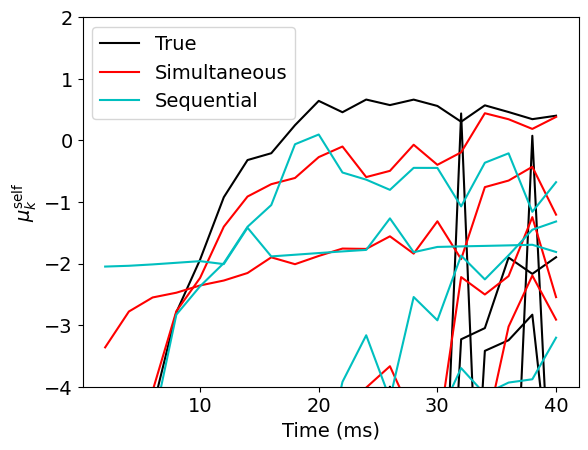
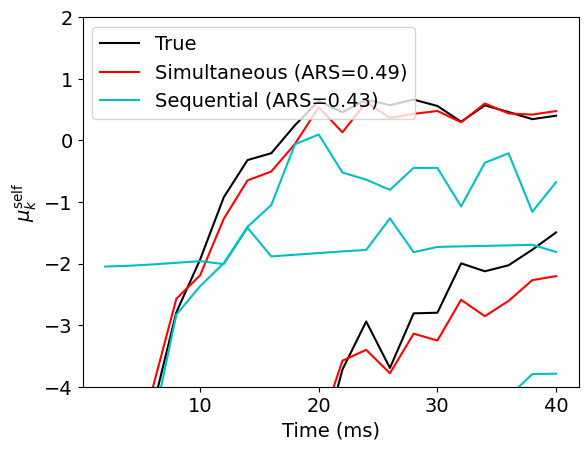
sending back fig

diff --git a/reviewer_figmaker.py b/reviewer_figmaker.py
@@ -114,7 +114,8 @@ share = 'all'
 l2s = np.logspace(-7,-1,13) if share!='all' else np.array([0])
 trials = 20
 
-fname = 'sim_frivsccsimul_simul'+str(0)+'_Kfit'+str(5)+'_l2i'+str(0)+'_share='+share
+Kfit=3
+fname = 'sim_frivsccsimul_simul'+str(0)+'_Kfit'+str(Kfit)+'_l2i'+str(0)+'_share='+share
 D_true = np.load(fname+'.npz',allow_pickle=True)
 N = D_true['Q'].shape[0]
 true_Fs = D_true['true_betas'][:d[0]]
@@ -125,12 +126,13 @@ D_true = np.load(fname+'.npz',allow_pickle=True)
 true_Sigmas = np.zeros((1,))
 _,true_wts = np.unique(D_true['true_ks'],return_counts=True)
 true_wts=true_wts/N
+print(true_wts, true_mus.shape)
 thresh=-4
 Sig_to_sigs = lambda X: [np.sqrt(np.diag(X[k])) if len(X[k].shape)==2 else np.sqrt(X[k]) for k in range(len(X))]
 
+
 # Simultaneous
 if run:
-    Kfit=5
     for l2_i in range(l2s.size):
         max_BIC = -np.inf
         for trial in range(trials):
@@ -171,7 +173,6 @@ if run:
         betas = np.hstack([np.squeeze(D['Fs']),D['Ws'],np.expand_dims(D['bs'],1)])
     print(betas.shape)
     max_bic = -np.inf
-    Kfit=5
     for trial in range(trials):
         gmm = GaussianMixture(n_components=Kfit,covariance_type='diag', max_iter=100)
         gmm.fit(betas)
@@ -185,13 +186,14 @@ if run:
 D = np.load('../summary_files/ivscc_sims_share'+share+'.npz',allow_pickle=True)
 
 # Clusters Figure
+print(D['simul_D'][()]['ars'],D['seq_D'][()]['ars'])
 fig,ax = plt.subplots()
 hs = []
 labels = []
 plot_data = [
     ('True', true_mus[:,d[0]:-1], Sig_to_sigs(true_Sigmas), true_wts, 'k'),
-    ('Simultaneous', D['simul_D'][()]['mu_k'][:,d[0]:-1], Sig_to_sigs(D['simul_D'][()]['C_k']), D['simul_D'][()]['wts'], 'r'), 
-    ('Sequential', D['seq_D'][()]['mu_k'][:,d[0]:-1], Sig_to_sigs(D['seq_D'][()]['C_k']), D['seq_D'][()]['wts'],'c')]
+    ('Simultaneous (ARS='+str(np.round(D['simul_D'][()]['ars'],2))+')', D['simul_D'][()]['mu_k'][:,d[0]:-1], Sig_to_sigs(D['simul_D'][()]['C_k']), D['simul_D'][()]['wts'], 'r'), 
+    ('Sequential (ARS='+str(np.round(D['seq_D'][()]['ars'],2))+')', D['seq_D'][()]['mu_k'][:,d[0]:-1], Sig_to_sigs(D['seq_D'][()]['C_k']), D['seq_D'][()]['wts'],'c')]
 for label, means, sds, wts, color in plot_data:
     h = plt.plot(np.arange(1,d[1]+1)*dt,means.T,color+'-')
 #    h = plt.plot(np.arange(1,d[1]+1)*dt,means[wts>0.03,:].T,color+'-')
